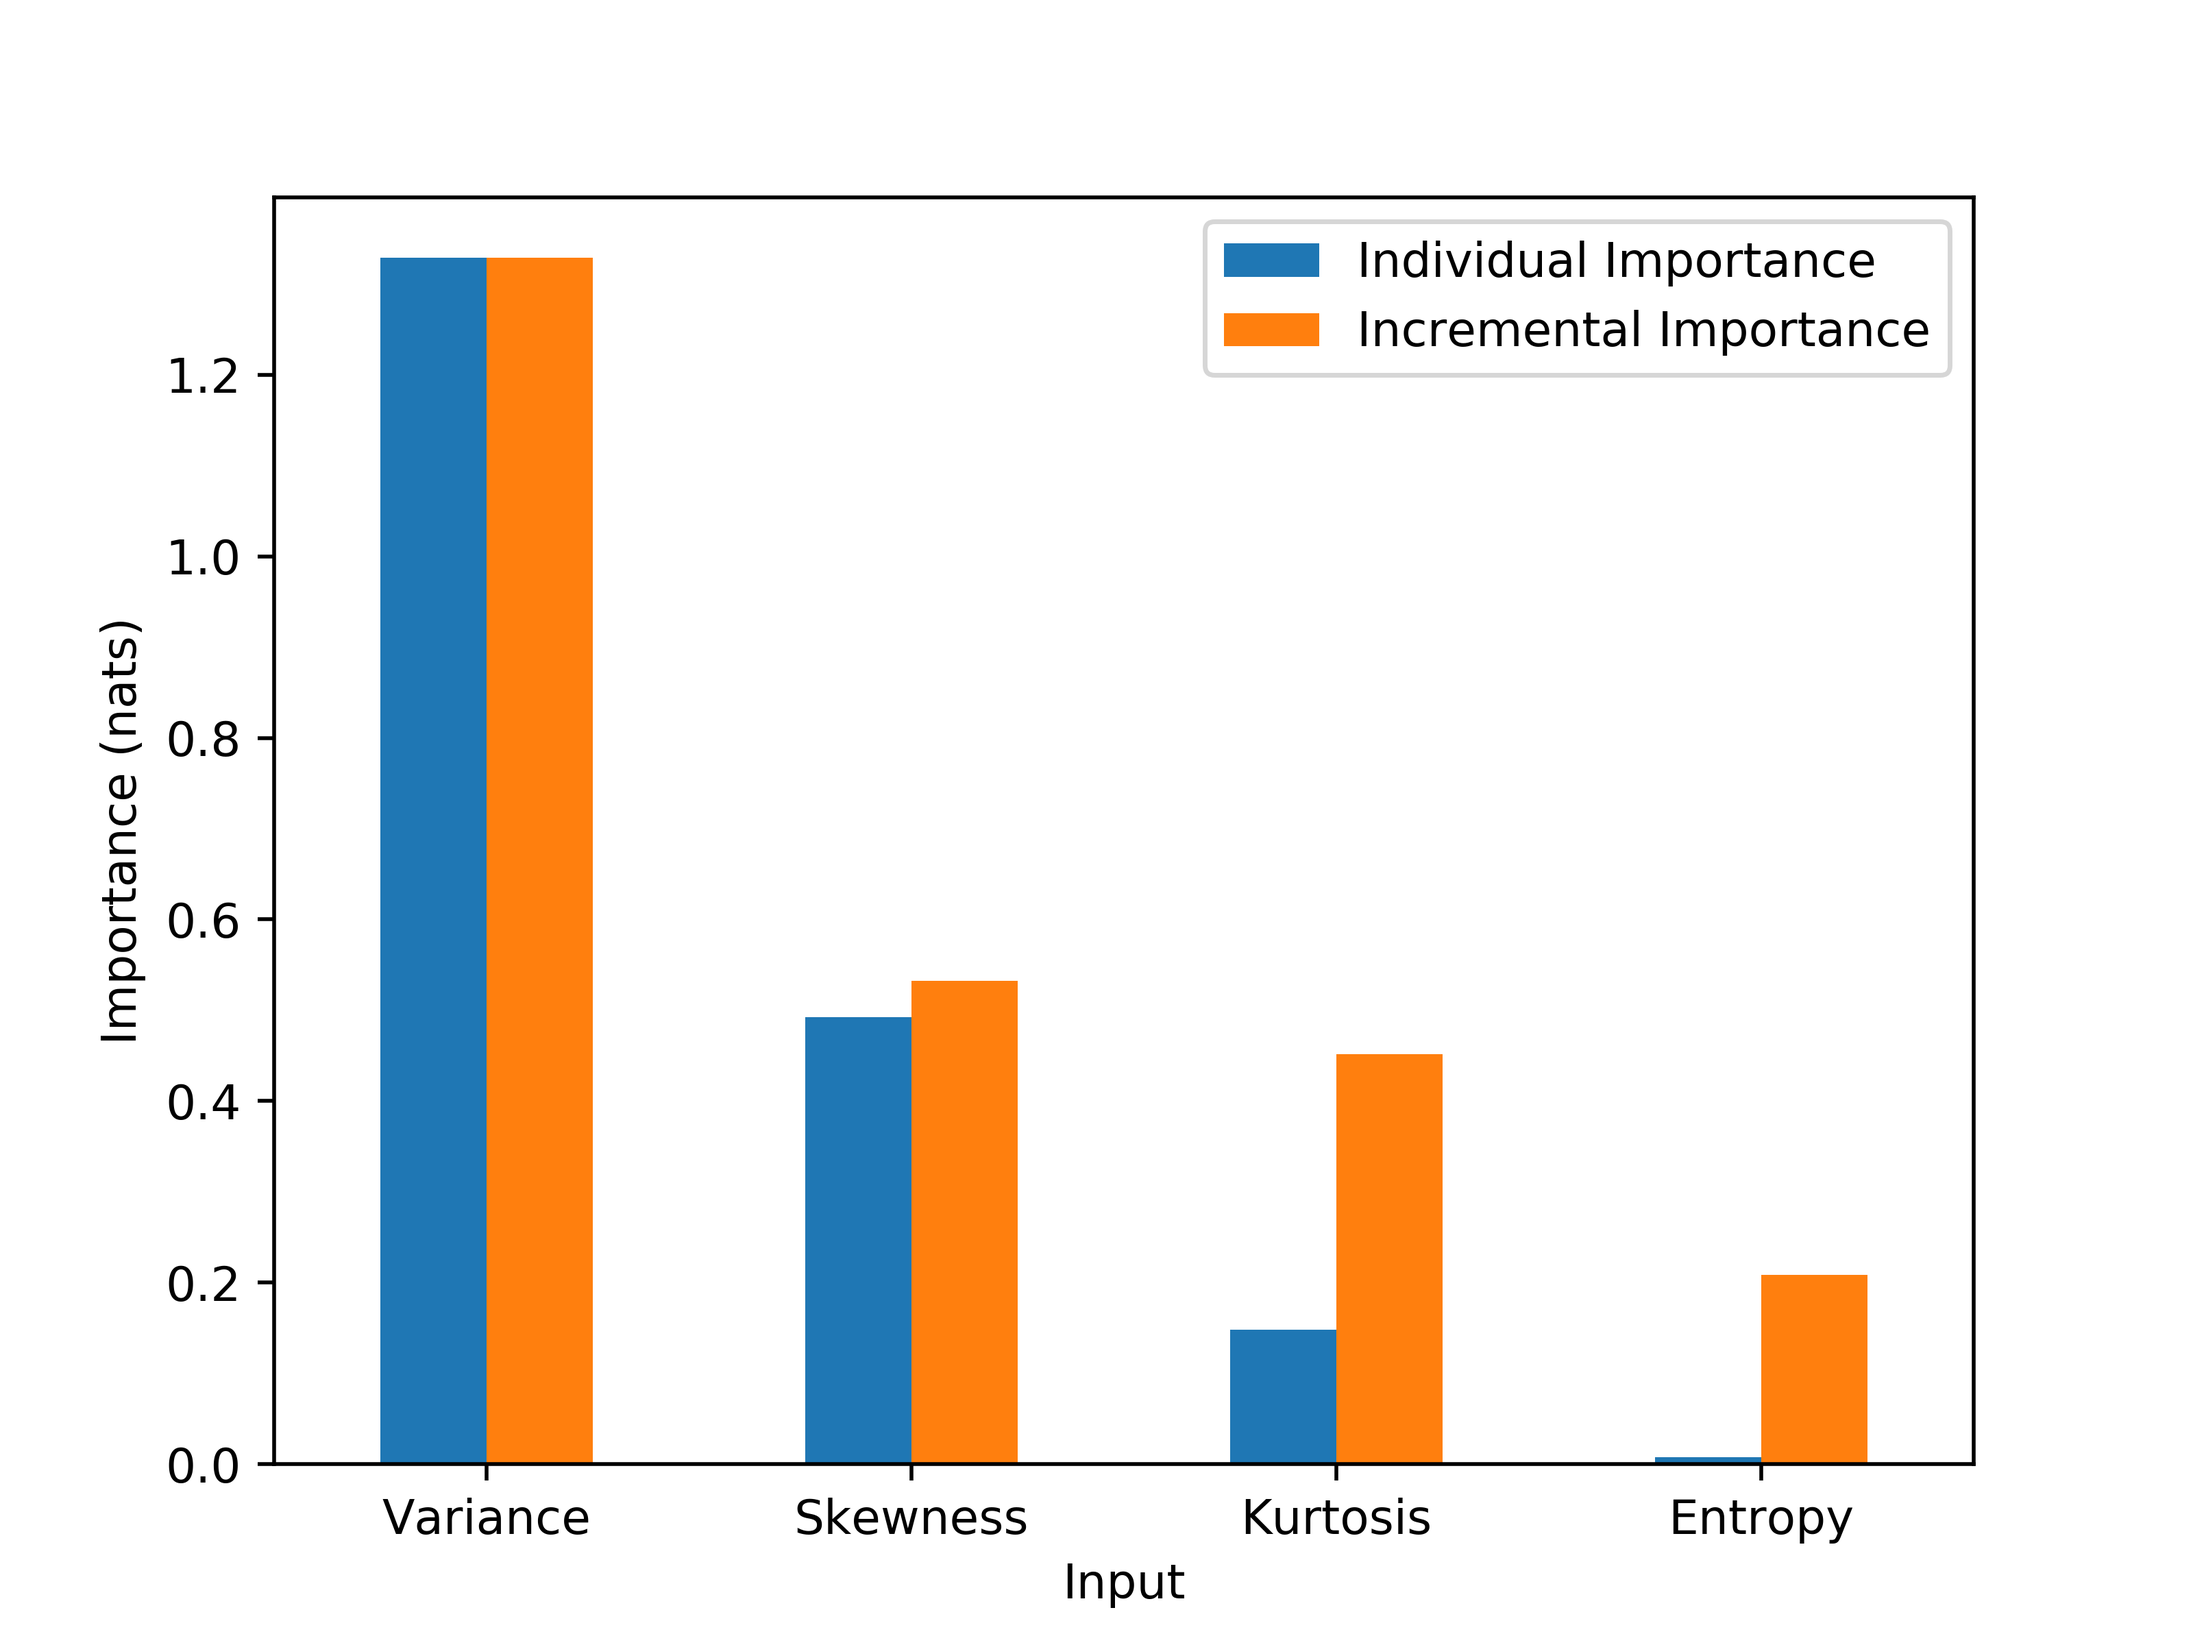
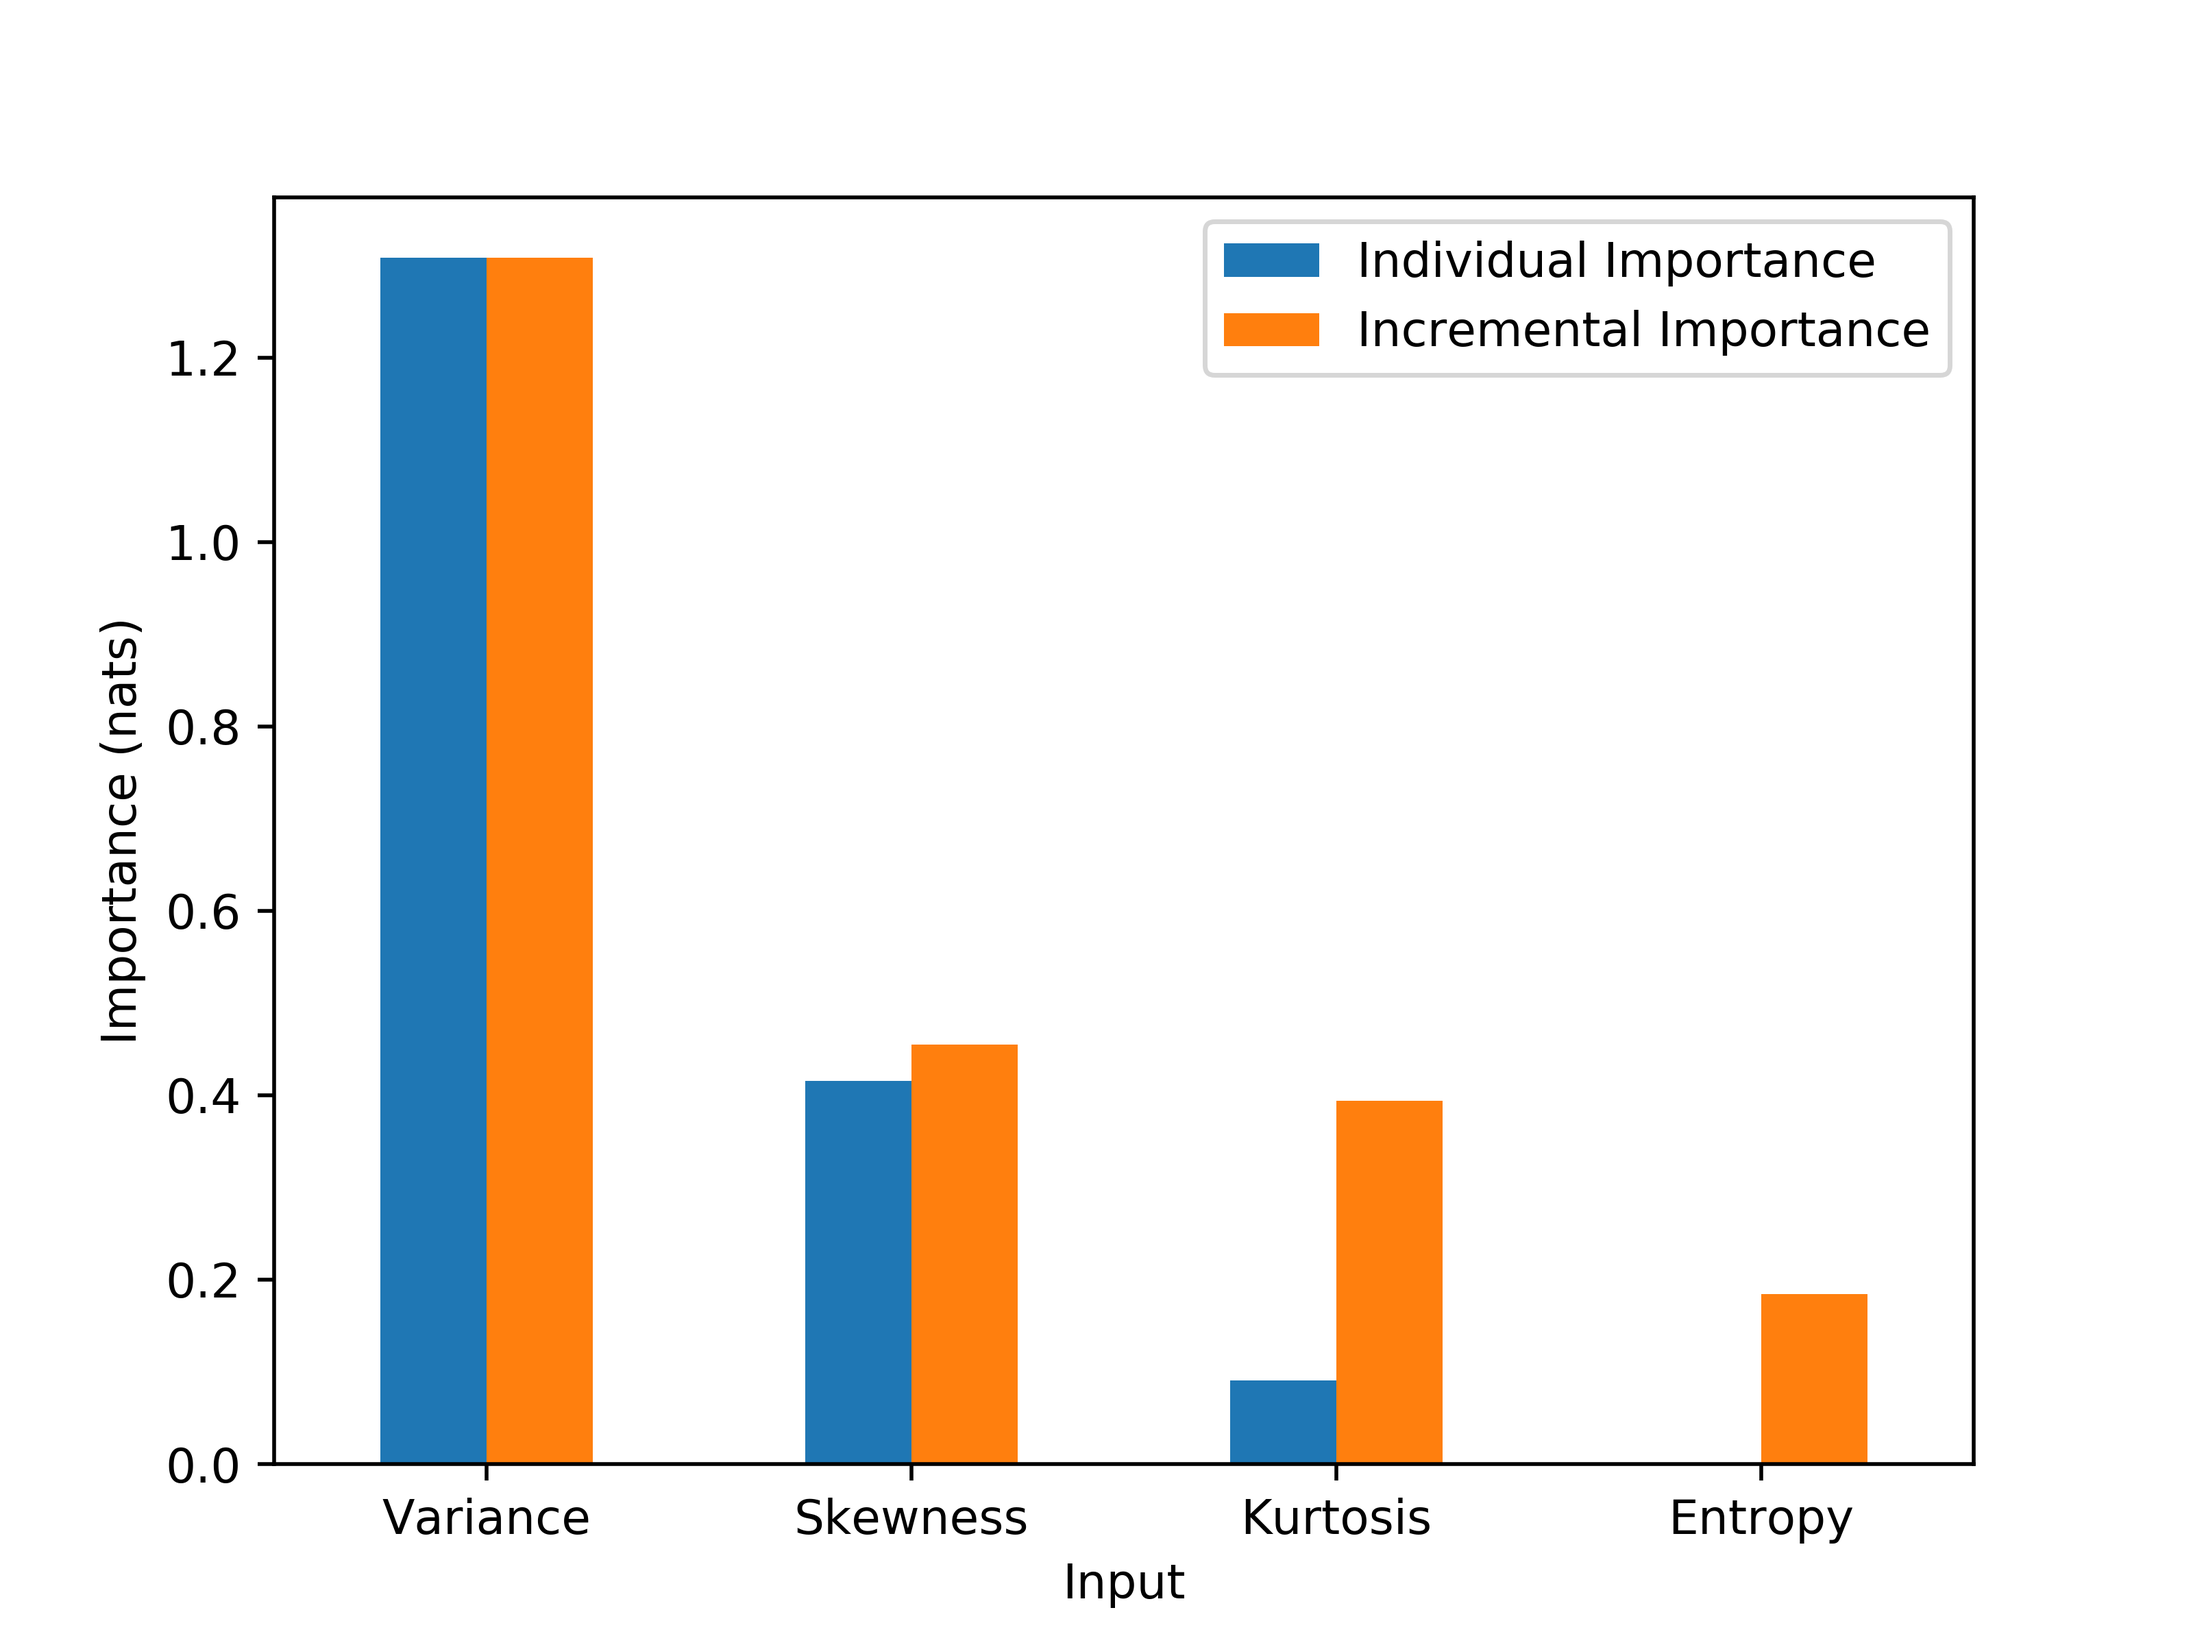
Switching to statsmodels for kde-based scalar entropy estimation for support bandwith estimation

diff --git a/setup.py b/setup.py
@@ -8,7 +8,7 @@ Created on Thu Feb 27 10:54:00 2020
 import sys
 sys.path.append('.')
 from setuptools import setup, find_packages
-version = "0.0.15"
+version = "0.0.16"
 
 setup(name="kxy",
 	version=version,
@@ -26,7 +26,8 @@ setup(name="kxy",
 	download_url = "https://github.com/kxytechnologies/kxy-python/archive/v%s.tar.gz" % version,
 	keywords = ["AutoML", "Pre-Learning", "Post-Learning", "Model-Free ML"],
 	packages=find_packages(exclude=["tests"]),
-	install_requires=["numpy>=1.13.1", "scipy>=1.4.1", "pandas>=0.23.0", "requests==2.22.0"],
+	install_requires=["numpy>=1.13.1", "scipy>=1.4.1", "pandas>=0.23.0", "requests==2.22.0", \
+        "statsmodels"],
     classifiers=[
         "License :: OSI Approved :: GNU Affero General Public License v3 or later (AGPLv3+)",
         "Programming Language :: Python :: 3 :: Only",

diff --git a/kxy/api/core/entropy.py b/kxy/api/core/entropy.py
@@ -7,7 +7,7 @@ import requests
 
 import numpy as np
 import scipy.special as spe
-from scipy import stats
+import statsmodels.api as sm
 
 from kxy.api import APIClient, solve_copula_sync
 from .utils import spearman_corr, pearson_corr
@@ -79,8 +79,9 @@ def scalar_continuous_entropy(x, space='dual', method='gaussian-kde'):
 		return ent
 
 	if method == 'gaussian-kde':
-	    kern = stats.gaussian_kde(x)
-	    return -kern.logpdf(x).mean()
+		kde = sm.nonparametric.KDEUnivariate(x)
+		kde.fit(kernel='gau')
+		return kde.entropy
 
 
 

diff --git a/docs/latest/introduction/getting_started/index.rst b/docs/latest/introduction/getting_started/index.rst
@@ -69,7 +69,7 @@ inputs (irrespective of the classification model)?
 .. code-block:: python
 
 	>>> df.kxy.classification_feasibility('Is Fake')
-	2.52
+	2.34
 
 The higher the number is relative to the entropy of the responsee, the better. A value of 0
 means no model can successfully solve this classification problem using provided inputs, no
@@ -95,17 +95,18 @@ and reduces time wasted improving models fitted on irrelevant inputs.
 	>>> importance_df_1 = df.kxy.individual_input_importance('Is Fake')
 	>>> importance_df_1
 	       input  individual_importance  normalized_individual_importance  cum_normalized_individual_importance
-	0  Variance                   1.33                              0.67                                  0.67
-	1  Skewness                   0.49                              0.25                                  0.92
-	2  Kurtosis                   0.15                              0.08                                  1.00
-	3   Entropy                   0.01                              0.00                                  1.00
+	0  Variance                   1.31                              0.72                                  0.72
+	1  Skewness                   0.42                              0.23                                  0.95
+	2  Kurtosis                   0.09                              0.05                                  1.00
+	3   Entropy                   0.00                              0.00                                  1.00
+
 	>>> importance_df_2 = df.kxy.incremental_input_importance('Is Fake')
 	>>> importance_df_2
 	       input  selection_order  incremental_importance  normalized_incremental_importance  cum_normalized_incremental_importance
-	0  Variance                1                    1.33                               0.53                                   0.53
-	1  Skewness                2                    0.53                               0.21                                   0.74
-	2  Kurtosis                3                    0.45                               0.18                                   0.92
-	3   Entropy                4                    0.21                               0.08                                   1.00
+	0  Variance                1                    1.31                               0.56                                   0.56
+	1  Skewness                2                    0.46                               0.19                                   0.75
+	2  Kurtosis                3                    0.39                               0.17                                   0.92
+	3   Entropy                4                    0.18                               0.08                                   1.00
 	>>> importance_df_1 = importance_df_1.set_index(['input'])
 	>>> importance_df_2 = importance_df_2.set_index(['input'])
 	>>> importance_df = pd.concat([importance_df_1, importance_df_2], axis=1)
@@ -171,7 +172,7 @@ Back to our bank note example, given how high an out-of-sample accuracy we got, 
 	... 	discrete_input_columns=(), continuous_input_columns=())
 	0.00
 	>>> train_df.kxy.classification_feasibility('Is Fake')
-	1.95
+	1.82
 
 As it turns out, a simple logistic regression allows us to extract nearly all of the intrinsic value there is in using the 3 inputs above to determmine whether a bank note is fake. Thus, using a nonlinear model might not yield the highest ROI. 
 
